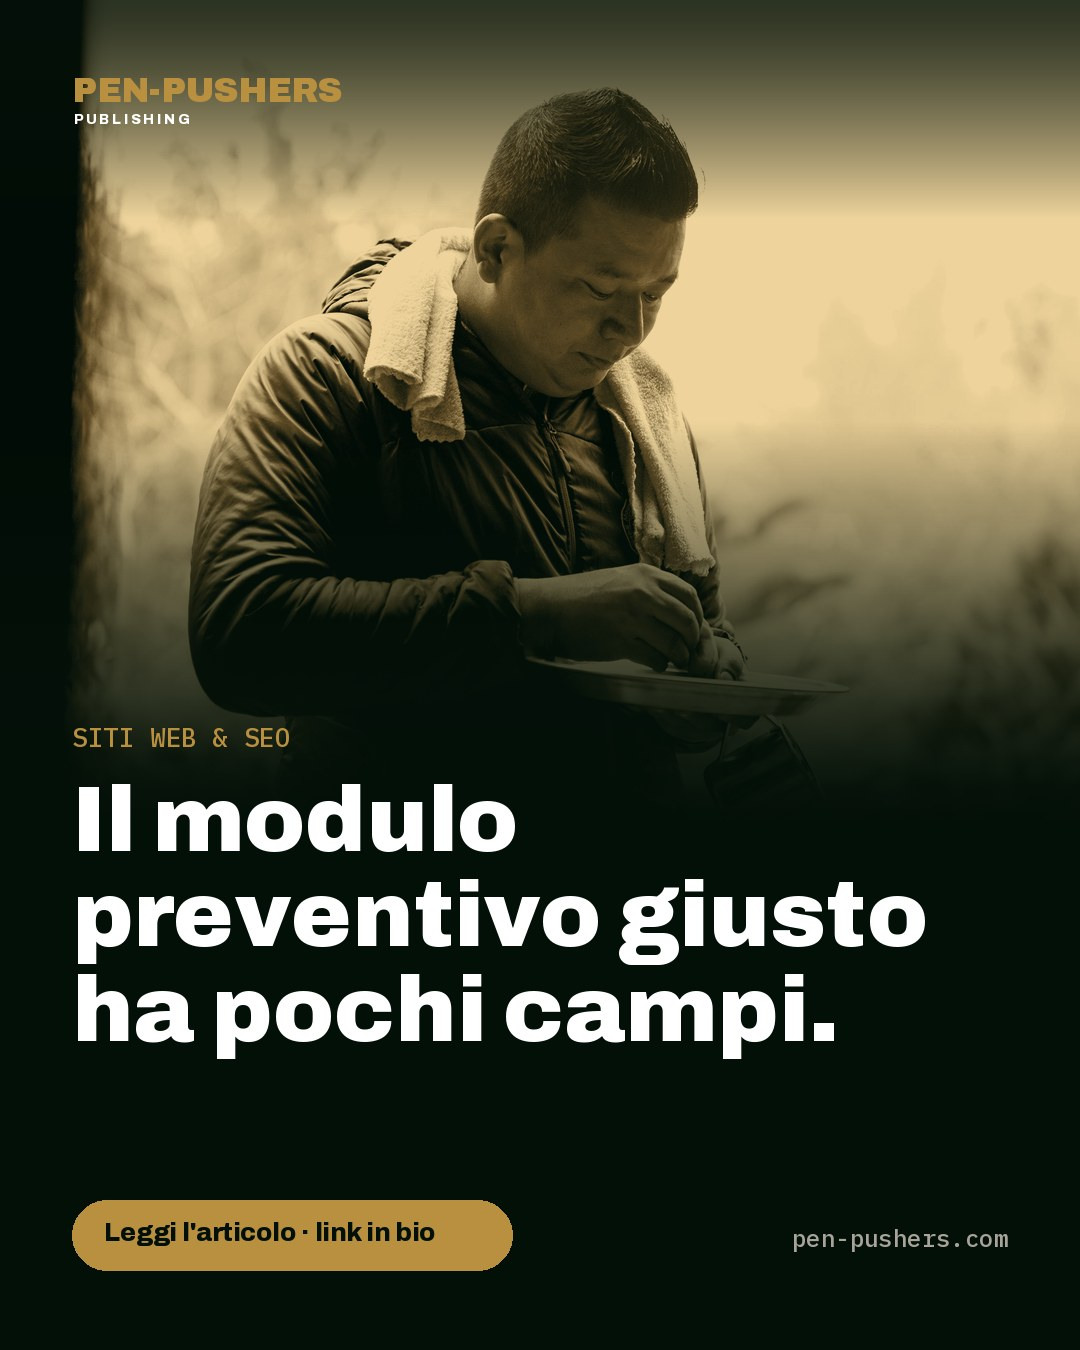
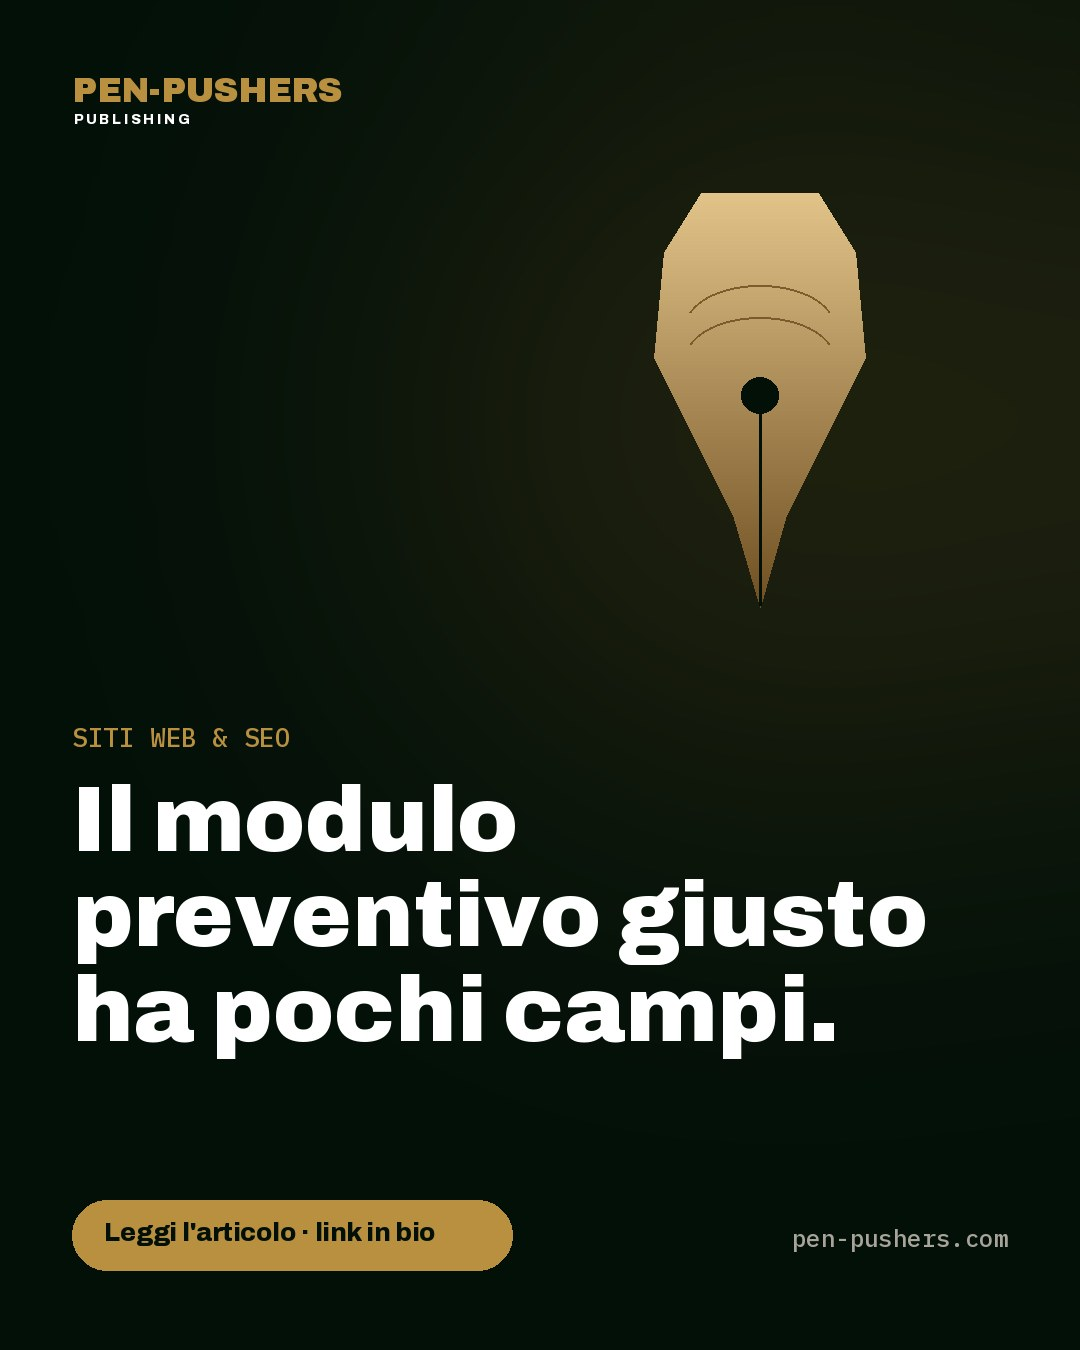
Insights 2026-11-03: foto più coerente per modulo richiesta preventivo

diff --git a/modulo-richiesta-preventivo-quali-campi-chiedere.html b/modulo-richiesta-preventivo-quali-campi-chiedere.html
@@ -144,7 +144,7 @@
       <div class="byline mono"><span>Di Manuel Ruisi</span><span><time datetime="2026-11-03">3 novembre 2026</time></span><span>6 min di lettura</span></div>
     </header>
     <img class="art-cover rise d2" src="/insights/img/covers/modulo-richiesta-preventivo-quali-campi-chiedere.jpg" alt="Modulo di richiesta preventivo: quali campi chiedere per ricevere richieste serie" width="1200" height="630">
-    <p class="credit mono">Foto di <a href="https://unsplash.com/photos/a-man-holding-a-clipboard-and-writing-on-a-piece-of-paper-kPdhLiMq7dc" rel="noopener" target="_blank">Frederick Shaw</a> su Unsplash</p>
+    <p class="credit mono">Foto di <a href="https://unsplash.com/photos/a-person-touching-the-screen-of-a-tablet-VFRKl7yRU0E" rel="noopener" target="_blank">Tom Claes</a> su Unsplash</p>
     <article class="body">
 <h2>Il problema: tante richieste, poche serie</h2>
 <p>Un'azienda che installa e ripara impianti di refrigerazione per ristoranti ha un modulo sul sito con tre campi: nome, email, messaggio. Arrivano richieste come "vorrei un preventivo, grazie", senza telefono, senza città, senza dire di quale impianto si parla. Il titolare deve rispondere, chiedere i dettagli, aspettare. Metà delle persone non risponde più. Un'altra parte è fuori zona, o cerca un servizio che l'azienda non fa.</p>
